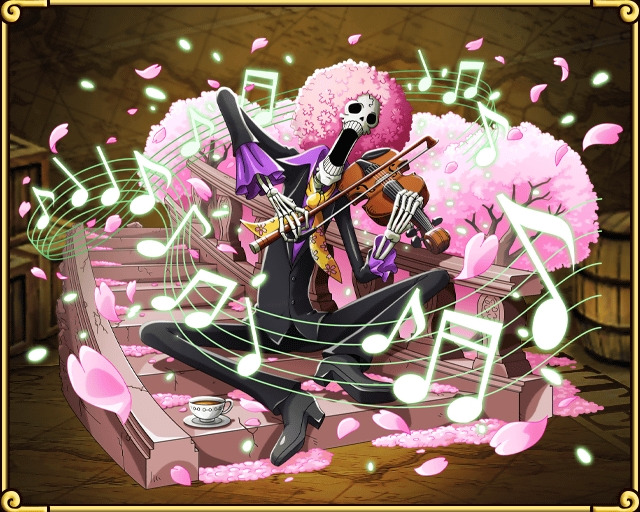
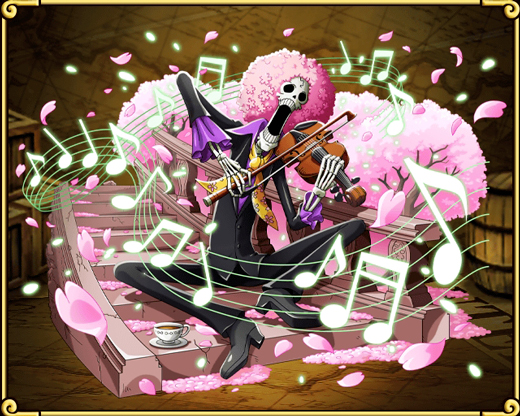
改变了图片尺寸 添加了锚点

diff --git a/index.html b/index.html
@@ -3,101 +3,135 @@
   <head>
     <meta charset="UTF-8" />
     <meta http-equiv="X-UA-Compatible" content="IE=edge" />
-    <meta name="viewport" content="width=device-width, initial-scale=1.0" />
+    <meta
+      name="viewport"
+      content="width=device-width, initial-scale=1.0, minimum-scale=1.0, maximum-scale=1.0, user-scalable=no"
+    />
     <title>海贼王布鲁克</title>
     <style>
-      img{
+      img {
         max-width: 100%;
       }
     </style>
   </head>
-  <p>
-    <h1>布鲁克</h1>
+  <body>
+    <nav>
+      <ol>
+        <li id="top"><a href="#introduction">个人简介</a></li>
+        <li><a href="#events">重要事件</a></li>
+        <li><a href="#moves">主要招式</a></li>
+        <li><a href="#records">主要战绩</a></li>
+        <li><a href="#pictures">生活照片</a></li>
+        <li><a href="#life">生平介绍</a></li>
+      </ol>
+    </nav>
+    <p></p>
+    <h1 id="introduction">布鲁克</h1>
     <p>
       布鲁克，人称鼻歌布鲁克。日本漫画《航海王》及其衍生作品中的男性角色。现为草帽一伙音乐家。
     </p>
-    <h2>重要事件</h2>
-    <ol>
-      <li>
-        原本是某国护卫队团长，后加入伦巴海贼团，50年前跟鲸鱼拉布约定在"双子岬"重逢。
-      </li>
-      <li>后在魔鬼三角地带遭遇毒手，因黄泉果实的能力，灵魂得以走出黄泉。</li>
-      <li>
-        在魔鬼三角地带迷路一年，找到的身体已变成骷髅，自此只能以骷髅状态生存。
-      </li>
-      <li>幽灵岛战役结束后，得知伙伴拉布平安无事的消息，正式加入草帽一伙。</li>
-    </ol>
-    <h2>主要招式</h2>
-    <ul>
-      <li>酒樽舞曲·连环击：从拐杖剑中使出无数突刺冲击。</li>
-      <li>革命舞曲·突进击：突进从拐杖剑中瞬间快速发出极斩剑法。</li>
-      <li>
-        鼻歌三丁·箭尾斩：突进从拐杖剑中瞬间快速发出极斩，被斩到的人会毫无知觉，被引发起的巨大冲击击中招倒下。
-      </li>
-      <li>黎明歌·极光突：用拐杖剑急速突进，用剑气刺人之剑法。</li>
-      <li>
-        掠之歌·吹雪斩：通过魂之丧剑的寒气发出的鼻歌三丁·燕尾斩，被斩到的敌人伤口会结冰，随后瞬间粉碎。
-      </li>
-      <li>
-        绘图歌·一节斩：通过两年后新改装的小提琴弓机关手杖发出的快斩绝技，对手会在无声无息之间被砍晕。
-      </li>
-    </ul>
-    <h2>主要战绩</h2>
-    <table>
-      <thead>
-        <tr>
-          <th>对手</th>
-          <th>战果</th>
-        </tr>
-      </thead>
-      <tbody>
-        <tr>
-          <td>月光·莫利亚</td>
-          <td>败北 被夺走影子</td>
-        </tr>
-        <tr>
-          <td>武士龙马</td>
-          <td>败北 被轻松击败</td>
-        </tr>
-        <tr>
-          <td>大将黄猿</td>
-          <td>没有结果 攻击对其无效</td>
-        </tr>
-        <tr>
-          <td>巴索罗米·熊</td>
-          <td>败北 被传送到纳玛库拉岛</td>
-        </tr>
-        <tr>
-          <td>狐火锦卫门</td>
-          <td>没有结果 中途逃走</td>
-        </tr>
-        <tr>
-          <td>卡彭·贝基</td>
-          <td>败北 对方带走了山治和凯撒</td>
-        </tr>
-        <tr>
-          <td>夏洛特·玲玲</td>
-          <td>败北 被大妈使用高级霍米兹打败</td>
-        </tr>
-      </tbody>
-    </table>
-    <h2>生活照片</h2>
-      <div><img width="400" src="imgs/1.jpg" alt="图一" /></div>
-      <div><img width="400" src="imgs/2.jpg" alt="图二" /></div>
-      <div><img width="400" src="imgs/3.jpg" alt="图三" /></div>
-    <h2>生平介绍</h2>
-    <p>
-      因误闯鬼魂岛被月光·莫利亚夺去影子，为了抢回自己的影子，在岛上大量净化僵尸，结果不敌装有自己影子的僵尸龙马，大败而归。</p>
-    <p>
-      布鲁克和草帽一伙相遇时，除路飞、索隆、罗宾以外的草帽一伙成员都因为见到布鲁克只剩一副骨架的身体而感到害帕。
-      但是布鲁克不以为意，兴奋的对一行人表示重见活人的喜悦，却因为请求罗宾让他窥视内裤的发言，而被娜美修理了一顿。
-      路飞则是对布鲁克充满好奇心，邀请他和一行人一起用餐，甚至直接对他提出加入草帽一伙的请求。
-      布鲁克因为被夺去影子而无法待在阳光底下而拒绝了路飞的邀请，还特地警告路飞等人赶快离开鬼魂岛。</p>
+    <section>
+      <h2 id="events">重要事件</h2>
+      <ol>
+        <li>
+          原本是某国护卫队团长，后加入伦巴海贼团，50年前跟鲸鱼拉布约定在"双子岬"重逢。
+        </li>
+        <li>后在魔鬼三角地带遭遇毒手，因黄泉果实的能力，灵魂得以走出黄泉。</li>
+        <li>
+          在魔鬼三角地带迷路一年，找到的身体已变成骷髅，自此只能以骷髅状态生存。
+        </li>
+        <li>
+          幽灵岛战役结束后，得知伙伴拉布平安无事的消息，正式加入草帽一伙。
+        </li>
+      </ol>
+      <h2 id="moves">主要招式</h2>
+      <ul>
+        <li>酒樽舞曲·连环击：从拐杖剑中使出无数突刺冲击。</li>
+        <li>革命舞曲·突进击：突进从拐杖剑中瞬间快速发出极斩剑法。</li>
+        <li>
+          鼻歌三丁·箭尾斩：突进从拐杖剑中瞬间快速发出极斩，被斩到的人会毫无知觉，被引发起的巨大冲击击中招倒下。
+        </li>
+        <li>黎明歌·极光突：用拐杖剑急速突进，用剑气刺人之剑法。</li>
+        <li>
+          掠之歌·吹雪斩：通过魂之丧剑的寒气发出的鼻歌三丁·燕尾斩，被斩到的敌人伤口会结冰，随后瞬间粉碎。
+        </li>
+        <li>
+          绘图歌·一节斩：通过两年后新改装的小提琴弓机关手杖发出的快斩绝技，对手会在无声无息之间被砍晕。
+        </li>
+      </ul>
+      <h2 id="records">主要战绩</h2>
+      <table>
+        <thead>
+          <tr>
+            <th>对手</th>
+            <th>战果</th>
+          </tr>
+        </thead>
+        <tbody>
+          <tr>
+            <td>月光·莫利亚</td>
+            <td>败北 被夺走影子</td>
+          </tr>
+          <tr>
+            <td>武士龙马</td>
+            <td>败北 被轻松击败</td>
+          </tr>
+          <tr>
+            <td>大将黄猿</td>
+            <td>没有结果 攻击对其无效</td>
+          </tr>
+          <tr>
+            <td>巴索罗米·熊</td>
+            <td>败北 被传送到纳玛库拉岛</td>
+          </tr>
+          <tr>
+            <td>狐火锦卫门</td>
+            <td>没有结果 中途逃走</td>
+          </tr>
+          <tr>
+            <td>卡彭·贝基</td>
+            <td>败北 对方带走了山治和凯撒</td>
+          </tr>
+          <tr>
+            <td>夏洛特·玲玲</td>
+            <td>败北 被大妈使用高级霍米兹打败</td>
+          </tr>
+        </tbody>
+      </table>
+      <h2 id="pictures">生活照片</h2>
+      <div>
+        <a href="imgs/1.jpg" target="_blank">
+          <img width="400" src="imgs/1.jpg" alt="图一" />
+        </a>
+      </div>
+      <div>
+        <a href="imgs/2.jpg" target="_blank">
+          <img width="400" src="imgs/2.jpg" alt="图二" />
+        </a>
+      </div>
+      <div>
+        <a href="imgs/3.jpg" target="_blank">
+          <img width="400" src="imgs/3.jpg" alt="图三" />
+        </a>
+      </div>
+      <h2 id="life">生平介绍</h2>
+      <p>
+        因误闯鬼魂岛被月光·莫利亚夺去影子，为了抢回自己的影子，在岛上大量净化僵尸，结果不敌装有自己影子的僵尸龙马，大败而归。
+      </p>
+      <p>
+        布鲁克和草帽一伙相遇时，除路飞、索隆、罗宾以外的草帽一伙成员都因为见到布鲁克只剩一副骨架的身体而感到害帕。
+        但是布鲁克不以为意，兴奋的对一行人表示重见活人的喜悦，却因为请求罗宾让他窥视内裤的发言，而被娜美修理了一顿。
+        路飞则是对布鲁克充满好奇心，邀请他和一行人一起用餐，甚至直接对他提出加入草帽一伙的请求。
+        布鲁克因为被夺去影子而无法待在阳光底下而拒绝了路飞的邀请，还特地警告路飞等人赶快离开鬼魂岛。
+      </p>
       在不听劝告的路飞带领一行人踏进鬼魂岛后，布鲁克趁弗兰奇与妮可·罗宾被蜘蛛猴困住时，净化蜘蛛猴并救了两人，后来还找来了大量盐来协助作战。
-     <p> 
-      直到索隆战胜龙马，影子才终于回到他的脚下，鬼魂岛战役结束后，从路飞口中得知伙伴拉布平安无事的消息，为了履行和拉布的约定，以音乐家身份正式加入草帽一伙。</p>
-     <p>
-      梦想:完成伦巴海贼团船长约基的遗愿--走到伟大航道的尽头，并环绕世界一周到"伟大航道双子岬"跟岛屿鲸鱼拉布重逢。
-    </p>
+      <p>
+        直到索隆战胜龙马，影子才终于回到他的脚下，鬼魂岛战役结束后，从路飞口中得知伙伴拉布平安无事的消息，为了履行和拉布的约定，以音乐家身份正式加入草帽一伙。
+      </p>
+      <p>
+        梦想:完成伦巴海贼团船长约基的遗愿--走到伟大航道的尽头，并环绕世界一周到"伟大航道双子岬"跟岛屿鲸鱼拉布重逢。
+      </p>
+    </section>
+    <footer><a href="#top">回到首页</a></footer>
   </body>
 </html>
